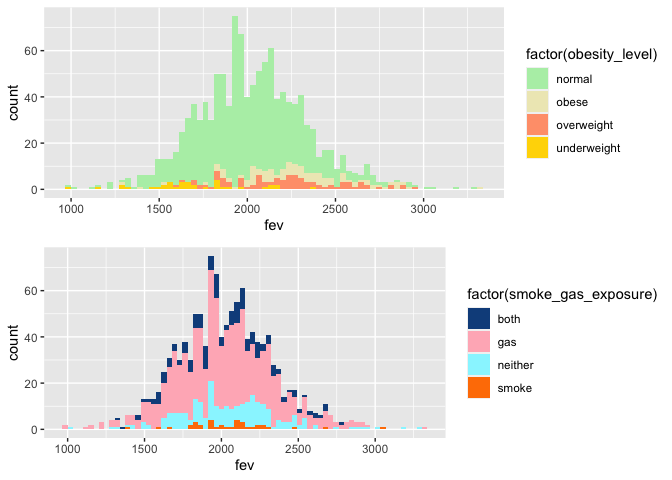
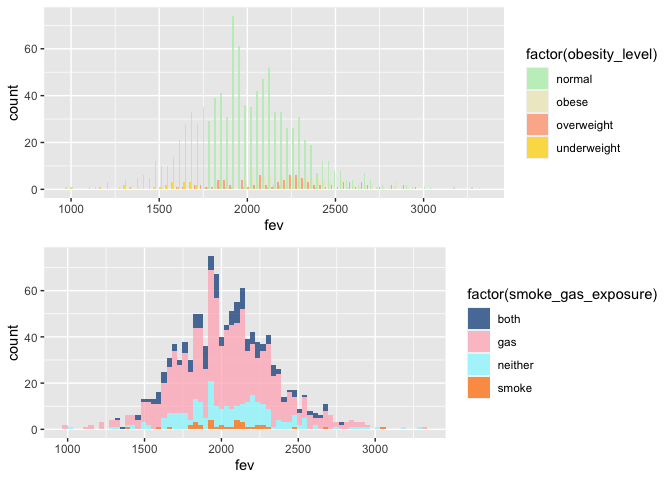
saving updates to plot and progress on EDA checklist

diff --git a/02-assignment/README.md b/02-assignment/README.md
@@ -1,7 +1,7 @@
 Assignment 02: Data Viz and Wrangling
 ================
 Flemming Wu
-2022-09-29
+2022-10-01
 
 For this assignment, we will be analyzing data from USC’s Children’s
 Health Study. The learning objectives are to conduct data wrangling and
@@ -15,7 +15,7 @@ regional CHS datasets in 01_chs. The individual data includes personal
 and health characteristics of children in 12 communities across Southern
 California. The regional data include air quality measurements at the
 community level. Once downloaded, you can merge these datasets using the
-location variable. Once combined, you will need to do the following:
+location variable.
 
 Load libraries
 
@@ -61,7 +61,7 @@ dim(individual)  #merged data table should contain 1200 rows
     ## [1] 1200   23
 
 ``` r
-dim(regional)  #merged data table should have 23 + 26 columns
+dim(regional)  #merged data table should have 23 + 27 - 1 columns
 ```
 
     ## [1] 12 27
@@ -80,8 +80,7 @@ Impute missing values with averages within variables “male” and
 “hispanic”
 
 ``` r
-# get columns that have na count greater than 0, and pass
-# them into a vector
+# look at which columns have NA count greater than 0
 which(colSums(is.na(dat)) > 0)
 ```
 
@@ -97,10 +96,11 @@ which(colSums(is.na(dat)) > 0)
 ``` r
 #select most important columns to impute NAs and assign to "in_names"
 in_names  <- c("agepft", "height", "weight", "bmi", "smoke", "asthma", "gasstove", "fev")
-out_names <- paste0(in_names, "_avg")
+out_names <- paste0(in_names, "_avg") #suffix for "out_names" will be _avg
+
 dat <- merge(
   
-  #group by variables hispanic and male, then compute the mean of in_names for each group and assign to temporary variable x
+  #group by variables "hispanic" and "male", then compute the mean of in_names for each group and assign to temporary variable x
   x = dat[,
   setNames(lapply(.SD, mean, na.rm = TRUE), out_names),
   .SDcols = in_names, 
@@ -113,6 +113,7 @@ dat <- merge(
   by.y = c("hispanic", "male")
 )
 
+#check results
 head(dat[, hispanic:educ_parent]) %>%
   knitr::kable()
 ```
@@ -174,7 +175,12 @@ dat[, .(min_bmi = min(bmi), max_bmi = max(bmi)), by = obesity_level][order(min_b
 | overweight    | 22.02353 | 23.99650 |
 | obese         | 24.00647 | 41.26613 |
 
+The bmi variables have been categorized as intended.
+
 ###### 3. Create another categorical variable named “smoke_gas_exposure” that summarizes “Second Hand Smoke” and “Gas Stove.” The variable should have four categories in total.
+
+As some values will have been imputed with averages, I will view the
+variables
 
 ``` r
 dat[(smoke %between% c(0.001, 0.999)) & (gasstove %between% c(0.001,
@@ -286,6 +292,148 @@ sure to focus on the key variables. Visualization Create the following
 figures and interpret them. Be sure to include easily understandable
 axes, titles, and legends.  
 
+Check dimensions, headers, footers, and variable types.
+
+``` r
+dim(dat)
+```
+
+    ## [1] 1200   51
+
+Dimensions look correct, the number of observations remained the same as
+the earlier check, and there are two additional columns (for the two
+categorical variables that were created)
+
+``` r
+head(dat) %>%
+    knitr::kable()
+```
+
+| hispanic | male | townname | sid | race |    agepft | height | weight |      bmi | asthma | active_asthma | father_asthma | mother_asthma | wheeze | hayfever | allergy | educ_parent |     smoke | pets |  gasstove |      fev |      fvc |     mmef | pm25_mass | pm25_so4 | pm25_no3 | pm25_nh4 | pm25_oc | pm25_ec | pm25_om | pm10_oc | pm10_ec | pm10_tc | formic | acetic |  hcl | hno3 | o3_max | o3106 | o3_24 |   no2 |  pm10 | no_24hr | pm2_5\_fr | iacid | oacid | total_acids |       lon |      lat | obesity_level | smoke_gas_exposure |
+|---------:|-----:|:---------|----:|:-----|----------:|-------:|-------:|---------:|-------:|--------------:|--------------:|--------------:|-------:|---------:|--------:|------------:|----------:|-----:|----------:|---------:|---------:|---------:|----------:|---------:|---------:|---------:|--------:|--------:|--------:|--------:|--------:|--------:|-------:|-------:|-----:|-----:|-------:|------:|------:|------:|------:|--------:|----------:|------:|------:|------------:|----------:|---------:|:--------------|:-------------------|
+|        0 |    0 | Alpine   | 835 | W    | 10.099932 |    143 |     69 | 15.33749 |      0 |             0 |             0 |             0 |      0 |        0 |       1 |           3 | 0.0000000 |    1 | 0.0000000 | 2529.276 | 2826.316 | 3406.579 |      8.74 |     1.73 |     1.59 |     0.88 |    2.54 |    0.48 |    3.04 |    3.25 |    0.49 |    3.75 |   1.03 |   2.49 | 0.41 | 1.98 |  65.82 | 55.05 | 41.23 | 12.18 | 24.73 |    2.48 |     10.28 |  2.39 |  3.52 |         5.5 | -116.7664 | 32.83505 | normal        | neither            |
+|        0 |    0 | Alpine   | 840 | W    |  9.965777 |    146 |     78 | 16.63283 |      0 |             0 |             0 |             0 |      0 |        0 |       0 |          NA | 0.1522989 |    0 | 0.7291066 | 2466.791 | 2638.221 | 3466.464 |      8.74 |     1.73 |     1.59 |     0.88 |    2.54 |    0.48 |    3.04 |    3.25 |    0.49 |    3.75 |   1.03 |   2.49 | 0.41 | 1.98 |  65.82 | 55.05 | 41.23 | 12.18 | 24.73 |    2.48 |     10.28 |  2.39 |  3.52 |         5.5 | -116.7664 | 32.83505 | normal        | gas                |
+|        0 |    0 | Alpine   | 860 | W    |  9.946612 |    142 |     64 | 14.42715 |      0 |             0 |             0 |             0 |      0 |        0 |       0 |           2 | 0.0000000 |    0 | 1.0000000 | 1759.866 | 2194.314 | 1695.652 |      8.74 |     1.73 |     1.59 |     0.88 |    2.54 |    0.48 |    3.04 |    3.25 |    0.49 |    3.75 |   1.03 |   2.49 | 0.41 | 1.98 |  65.82 | 55.05 | 41.23 | 12.18 | 24.73 |    2.48 |     10.28 |  2.39 |  3.52 |         5.5 | -116.7664 | 32.83505 | normal        | gas                |
+|        0 |    0 | Alpine   | 865 | W    | 10.039699 |    162 |    140 | 24.24797 |      1 |             1 |             0 |             0 |      1 |        0 |       1 |           3 | 0.0000000 |    1 | 1.0000000 | 2583.934 | 3567.541 | 2071.475 |      8.74 |     1.73 |     1.59 |     0.88 |    2.54 |    0.48 |    3.04 |    3.25 |    0.49 |    3.75 |   1.03 |   2.49 | 0.41 | 1.98 |  65.82 | 55.05 | 41.23 | 12.18 | 24.73 |    2.48 |     10.28 |  2.39 |  3.52 |         5.5 | -116.7664 | 32.83505 | obese         | gas                |
+|        0 |    0 | Alpine   | 873 | W    |  9.804244 |    140 |    101 | 23.42301 |      0 |             0 |             0 |             0 |      0 |        0 |       0 |           3 | 0.0000000 |    1 | 0.0000000 | 2226.421 | 2406.020 | 2734.114 |      8.74 |     1.73 |     1.59 |     0.88 |    2.54 |    0.48 |    3.04 |    3.25 |    0.49 |    3.75 |   1.03 |   2.49 | 0.41 | 1.98 |  65.82 | 55.05 | 41.23 | 12.18 | 24.73 |    2.48 |     10.28 |  2.39 |  3.52 |         5.5 | -116.7664 | 32.83505 | overweight    | neither            |
+|        0 |    0 | Alpine   | 894 | W    |  9.295003 |    150 |     89 | 17.97980 |      0 |             0 |             0 |             0 |     NA |        1 |       1 |           2 | 0.0000000 |    1 | 1.0000000 | 2448.837 | 2763.787 | 3041.860 |      8.74 |     1.73 |     1.59 |     0.88 |    2.54 |    0.48 |    3.04 |    3.25 |    0.49 |    3.75 |   1.03 |   2.49 | 0.41 | 1.98 |  65.82 | 55.05 | 41.23 | 12.18 | 24.73 |    2.48 |     10.28 |  2.39 |  3.52 |         5.5 | -116.7664 | 32.83505 | normal        | gas                |
+
+``` r
+tail(dat) %>%
+    knitr::kable()
+```
+
+| hispanic | male | townname |  sid | race |   agepft |   height |   weight |      bmi | asthma | active_asthma | father_asthma | mother_asthma | wheeze | hayfever | allergy | educ_parent |     smoke | pets | gasstove |      fev |      fvc |     mmef | pm25_mass | pm25_so4 | pm25_no3 | pm25_nh4 | pm25_oc | pm25_ec | pm25_om | pm10_oc | pm10_ec | pm10_tc | formic | acetic |  hcl | hno3 | o3_max | o3106 | o3_24 |   no2 | pm10 | no_24hr | pm2_5\_fr | iacid | oacid | total_acids |       lon |      lat | obesity_level | smoke_gas_exposure |
+|---------:|-----:|:---------|-----:|:-----|---------:|---------:|---------:|---------:|-------:|--------------:|--------------:|--------------:|-------:|---------:|--------:|------------:|----------:|-----:|---------:|---------:|---------:|---------:|----------:|---------:|---------:|---------:|--------:|--------:|--------:|--------:|--------:|--------:|-------:|-------:|-----:|-----:|-------:|------:|------:|------:|-----:|--------:|----------:|------:|------:|------------:|----------:|---------:|:--------------|:-------------------|
+|        1 |    1 | Upland   | 1799 | O    | 9.897331 | 138.0000 | 75.00000 | 17.90113 |      0 |             0 |             0 |             0 |      0 |        0 |       0 |           3 | 0.0000000 |    0 |        1 | 2084.428 | 2368.851 | 2630.158 |     22.46 |     2.65 |     7.75 |     2.96 |    6.49 |    1.19 |    7.79 |    8.32 |    1.22 |    9.54 |   2.67 |   4.73 | 0.46 | 4.03 |  63.83 |  46.5 |  22.2 | 37.97 | 40.8 |   18.48 |     27.73 |  4.49 |   7.4 |       11.43 | -117.6484 | 34.09751 | normal        | gas                |
+|        1 |    1 | Upland   | 1816 | W    | 9.631759 | 134.0000 | 60.00000 | 15.18864 |      0 |             0 |             0 |             0 |      0 |        0 |       1 |           3 | 0.0000000 |    1 |        1 | 1783.168 | 2001.980 | 2126.733 |     22.46 |     2.65 |     7.75 |     2.96 |    6.49 |    1.19 |    7.79 |    8.32 |    1.22 |    9.54 |   2.67 |   4.73 | 0.46 | 4.03 |  63.83 |  46.5 |  22.2 | 37.97 | 40.8 |   18.48 |     27.73 |  4.49 |   7.4 |       11.43 | -117.6484 | 34.09751 | normal        | gas                |
+|        1 |    1 | Upland   | 1833 | W    | 9.453799 | 139.0000 | 73.00000 | 17.17397 |      0 |             0 |             0 |             0 |      1 |        0 |       0 |           5 | 0.0000000 |    0 |        1 | 2000.662 | 2255.960 | 2396.026 |     22.46 |     2.65 |     7.75 |     2.96 |    6.49 |    1.19 |    7.79 |    8.32 |    1.22 |    9.54 |   2.67 |   4.73 | 0.46 | 4.03 |  63.83 |  46.5 |  22.2 | 37.97 | 40.8 |   18.48 |     27.73 |  4.49 |   7.4 |       11.43 | -117.6484 | 34.09751 | normal        | gas                |
+|        1 |    1 | Upland   | 1839 | M    | 9.776865 | 141.0000 | 85.00000 | 19.43381 |      0 |             0 |             0 |             0 |     NA |        1 |       0 |           3 | 0.0000000 |    1 |        1 | 2279.402 | 2537.542 | 2641.196 |     22.46 |     2.65 |     7.75 |     2.96 |    6.49 |    1.19 |    7.79 |    8.32 |    1.22 |    9.54 |   2.67 |   4.73 | 0.46 | 4.03 |  63.83 |  46.5 |  22.2 | 37.97 | 40.8 |   18.48 |     27.73 |  4.49 |   7.4 |       11.43 | -117.6484 | 34.09751 | normal        | gas                |
+|        1 |    1 | Upland   | 1850 | O    | 9.338809 | 143.0000 | 86.00000 | 19.11629 |      0 |             0 |             0 |             0 |      1 |       NA |       1 |           3 | 0.1501976 |    1 |        1 | 2428.672 | 2653.055 | 3489.301 |     22.46 |     2.65 |     7.75 |     2.96 |    6.49 |    1.19 |    7.79 |    8.32 |    1.22 |    9.54 |   2.67 |   4.73 | 0.46 | 4.03 |  63.83 |  46.5 |  22.2 | 37.97 | 40.8 |   18.48 |     27.73 |  4.49 |   7.4 |       11.43 | -117.6484 | 34.09751 | normal        | gas                |
+|        1 |    1 | Upland   | 1862 | W    | 9.966942 | 138.5984 | 82.76707 | 19.41148 |      0 |             0 |             1 |             0 |      1 |        0 |       0 |           4 | 0.0000000 |    1 |        0 | 2120.266 |       NA |       NA |     22.46 |     2.65 |     7.75 |     2.96 |    6.49 |    1.19 |    7.79 |    8.32 |    1.22 |    9.54 |   2.67 |   4.73 | 0.46 | 4.03 |  63.83 |  46.5 |  22.2 | 37.97 | 40.8 |   18.48 |     27.73 |  4.49 |   7.4 |       11.43 | -117.6484 | 34.09751 | normal        | neither            |
+
+``` r
+str(dat)
+```
+
+    ## Classes 'data.table' and 'data.frame':   1200 obs. of  51 variables:
+    ##  $ hispanic          : int  0 0 0 0 0 0 0 0 0 0 ...
+    ##  $ male              : int  0 0 0 0 0 0 0 0 0 0 ...
+    ##  $ townname          : chr  "Alpine" "Alpine" "Alpine" "Alpine" ...
+    ##  $ sid               : int  835 840 860 865 873 894 901 905 906 909 ...
+    ##  $ race              : chr  "W" "W" "W" "W" ...
+    ##  $ agepft            : num  10.1 9.97 9.95 10.04 9.8 ...
+    ##  $ height            : num  143 146 142 162 140 150 132 142 126 141 ...
+    ##  $ weight            : num  69 78 64 140 101 89 67 94 57 68 ...
+    ##  $ bmi               : num  15.3 16.6 14.4 24.2 23.4 ...
+    ##  $ asthma            : num  0 0 0 1 0 0 0 1 0 0 ...
+    ##  $ active_asthma     : int  0 0 0 1 0 0 0 1 0 0 ...
+    ##  $ father_asthma     : int  0 0 0 0 0 0 0 0 0 0 ...
+    ##  $ mother_asthma     : int  0 0 0 0 0 0 0 1 1 0 ...
+    ##  $ wheeze            : int  0 0 0 1 0 NA NA 1 0 0 ...
+    ##  $ hayfever          : int  0 0 0 0 0 1 1 0 0 1 ...
+    ##  $ allergy           : int  1 0 0 1 0 1 0 0 0 1 ...
+    ##  $ educ_parent       : int  3 NA 2 3 3 2 2 3 3 3 ...
+    ##  $ smoke             : num  0 0.152 0 0 0 ...
+    ##  $ pets              : int  1 0 0 1 1 1 1 1 1 1 ...
+    ##  $ gasstove          : num  0 0.729 1 1 0 ...
+    ##  $ fev               : num  2529 2467 1760 2584 2226 ...
+    ##  $ fvc               : num  2826 2638 2194 3568 2406 ...
+    ##  $ mmef              : num  3407 3466 1696 2071 2734 ...
+    ##  $ pm25_mass         : num  8.74 8.74 8.74 8.74 8.74 8.74 8.74 8.74 8.74 8.74 ...
+    ##  $ pm25_so4          : num  1.73 1.73 1.73 1.73 1.73 1.73 1.73 1.73 1.73 1.73 ...
+    ##  $ pm25_no3          : num  1.59 1.59 1.59 1.59 1.59 1.59 1.59 1.59 1.59 1.59 ...
+    ##  $ pm25_nh4          : num  0.88 0.88 0.88 0.88 0.88 0.88 0.88 0.88 0.88 0.88 ...
+    ##  $ pm25_oc           : num  2.54 2.54 2.54 2.54 2.54 2.54 2.54 2.54 2.54 2.54 ...
+    ##  $ pm25_ec           : num  0.48 0.48 0.48 0.48 0.48 0.48 0.48 0.48 0.48 0.48 ...
+    ##  $ pm25_om           : num  3.04 3.04 3.04 3.04 3.04 3.04 3.04 3.04 3.04 3.04 ...
+    ##  $ pm10_oc           : num  3.25 3.25 3.25 3.25 3.25 3.25 3.25 3.25 3.25 3.25 ...
+    ##  $ pm10_ec           : num  0.49 0.49 0.49 0.49 0.49 0.49 0.49 0.49 0.49 0.49 ...
+    ##  $ pm10_tc           : num  3.75 3.75 3.75 3.75 3.75 3.75 3.75 3.75 3.75 3.75 ...
+    ##  $ formic            : num  1.03 1.03 1.03 1.03 1.03 1.03 1.03 1.03 1.03 1.03 ...
+    ##  $ acetic            : num  2.49 2.49 2.49 2.49 2.49 2.49 2.49 2.49 2.49 2.49 ...
+    ##  $ hcl               : num  0.41 0.41 0.41 0.41 0.41 0.41 0.41 0.41 0.41 0.41 ...
+    ##  $ hno3              : num  1.98 1.98 1.98 1.98 1.98 1.98 1.98 1.98 1.98 1.98 ...
+    ##  $ o3_max            : num  65.8 65.8 65.8 65.8 65.8 ...
+    ##  $ o3106             : num  55 55 55 55 55 ...
+    ##  $ o3_24             : num  41.2 41.2 41.2 41.2 41.2 ...
+    ##  $ no2               : num  12.2 12.2 12.2 12.2 12.2 ...
+    ##  $ pm10              : num  24.7 24.7 24.7 24.7 24.7 ...
+    ##  $ no_24hr           : num  2.48 2.48 2.48 2.48 2.48 2.48 2.48 2.48 2.48 2.48 ...
+    ##  $ pm2_5_fr          : num  10.3 10.3 10.3 10.3 10.3 ...
+    ##  $ iacid             : num  2.39 2.39 2.39 2.39 2.39 2.39 2.39 2.39 2.39 2.39 ...
+    ##  $ oacid             : num  3.52 3.52 3.52 3.52 3.52 3.52 3.52 3.52 3.52 3.52 ...
+    ##  $ total_acids       : num  5.5 5.5 5.5 5.5 5.5 5.5 5.5 5.5 5.5 5.5 ...
+    ##  $ lon               : num  -117 -117 -117 -117 -117 ...
+    ##  $ lat               : num  32.8 32.8 32.8 32.8 32.8 ...
+    ##  $ obesity_level     : chr  "normal" "normal" "normal" "obese" ...
+    ##  $ smoke_gas_exposure: chr  "neither" "gas" "gas" "gas" ...
+    ##  - attr(*, ".internal.selfref")=<externalptr>
+
+The variables appear to be stored in the correct data type.
+
+  
+Take closer look at key variables and calculate initial summary
+statistics.
+
+The key variables are fev, smoke and gas exposure, pm 2.5, and bmi.
+
+According to this article from NCBI:
+ <https://www.ncbi.nlm.nih.gov/pmc/articles/PMC2643211/>  
+the forced expiratory volume of an individual varies by age and gender.
+First, I need to know what the age range is for individuals in this data
+set.
+
+``` r
+summary(dat[, agepft])
+```
+
+    ##    Min. 1st Qu.  Median    Mean 3rd Qu.    Max. 
+    ##   8.961   9.632   9.907   9.923  10.155  12.731
+
+After verifying on
+<https://github.com/USCbiostats/data-science-data/blob/master/01_chs/chs_codebook.docx>
+that the age numbers are in fact in years, I looked back to the NCBI
+article to find what range of fev I should expect to see for individuals
+at ages 8 to 13. According to the plot in Figure 1, the median fev
+values found for individuals ages 8 to 13 ranged from below 1 liter to
+about 3 liters for females and 1 liter to 3.5 liters in males.
+
+``` r
+# according to the document describing the data, the fev is
+# recorded in ml.
+
+dat[, .(min = min(fev), median = median(fev), max = max(fev)),
+    by = male]
+```
+
+    ##    male       min   median      max
+    ## 1:    0  984.8485 1945.743 3179.798
+    ## 2:    1 1146.4494 2090.258 3323.684
+
+The stats for fev in males and females falls within the range that I
+would expect them to.
+
 ###### 1. Facet plot showing scatterplots with regression lines of BMI vs FEV by “townname”. 
 
 ``` r
@@ -306,31 +454,20 @@ slightly by region.
 ###### 2. Stacked histograms of FEV by BMI category and FEV by smoke/gas exposure. Use different color schemes than the ggplot default.
 
 ``` r
-require(gridExtra)
+ggplot(data = dat, mapping = aes(x = fev)) + geom_histogram(mapping = aes(fill = factor(obesity_level)),
+    bins = 70, position = "dodge", binwidth = 50) + scale_fill_manual(values = c("darkseagreen2",
+    "dodgerblue", "firebrick2", "gold1"))
 ```
 
-    ## Loading required package: gridExtra
-
-    ## 
-    ## Attaching package: 'gridExtra'
-
-    ## The following object is masked from 'package:dplyr':
-    ## 
-    ##     combine
+![](README_files/figure-gfm/histograms%20of%20fev%20by%20bmi-1.png)<!-- -->
 
 ``` r
-p1 <- ggplot(data = dat, mapping = aes(x = fev)) + geom_histogram(mapping = aes(fill = factor(obesity_level)),
-    bins = 70) + scale_fill_manual(values = c("darkseagreen2",
-    "lemonchiffon2", "lightsalmon1", "gold1"))
-
-p2 <- ggplot(data = dat, mapping = aes(x = fev)) + geom_histogram(mapping = aes(fill = factor(smoke_gas_exposure)),
-    bins = 70) + scale_fill_manual(values = c("dodgerblue4",
-    "lightpink", "cadetblue1", "darkorange1"))
-
-grid.arrange(p1, p2, ncol = 1)
+ggplot(data = dat, mapping = aes(x = fev)) + geom_histogram(mapping = aes(fill = factor(smoke_gas_exposure)),
+    bins = 70, position = "dodge", binwidth = 50) + scale_fill_manual(values = c("dodgerblue4",
+    "lightpink", "cadetblue1", "yellow1"))
 ```
 
-![](README_files/figure-gfm/histograms%20of%20fev%20by%20bmi%20and%20smoke/gas-1.png)<!-- -->  
+![](README_files/figure-gfm/histogram%20of%20fev%20by%20smoke/gas-1.png)<!-- -->  
 Of the two histograms above, the one on top reveals that most people in
 the data set fall under the normal obesity level category, and that the
 average forced expiratory volume (fev) for people in this category lies
